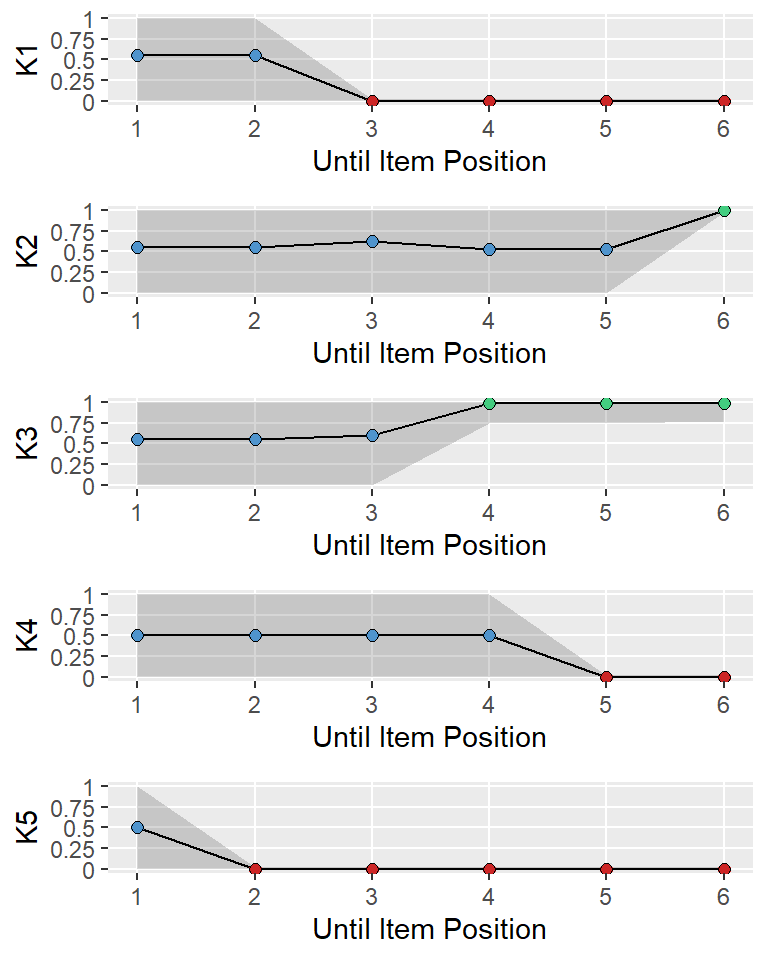
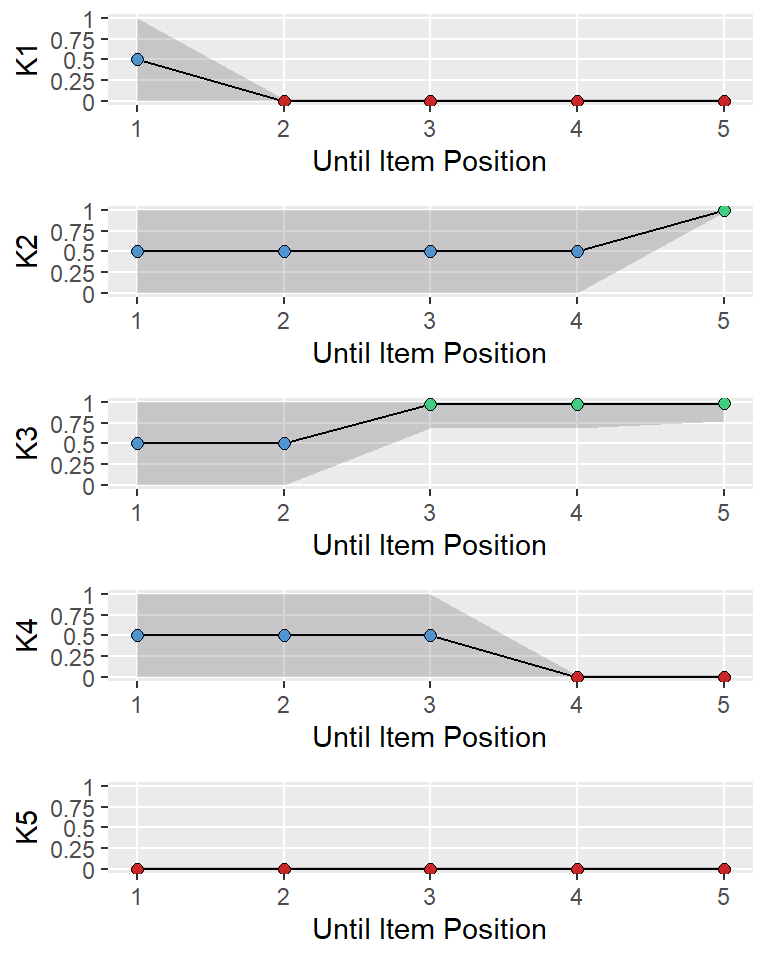
Work in progress

diff --git a/publications.html b/publications.html
@@ -299,24 +299,39 @@ $(document).ready(function () {
 
 
 <p><em>Page under construction</em></p>
+<div id="in-press" class="section level3">
+<h3>[2020/in press]</h3>
 <p><sup>18</sup> <strong>Sorrel, M. A.</strong>, Martínez-Huertas, J. A., &amp; Arconada, M. (in press). It must have been burnout: Prevalence and related factors among Spanish PhD students. <em>Spanish Journal of Psychology</em>.</p>
 <p><sup>17</sup> <strong>Sorrel, M. A.</strong>, Barrada, J. R., de la Torre, J., &amp; Abad, F. J. (in press). Adapting cognitive diagnosis computerized adaptive testing item selection rules to traditional item response theory. <em>PLOS ONE</em>. <a href="doi:10.1371/journal.pone.0227196" class="uri">doi:10.1371/journal.pone.0227196</a></p>
 <p><sup>16</sup> Nájera, P., <strong>Sorrel, M.A.</strong>, &amp; de la Torre, J. Abad, F. J. (in press). Improving robustness in Q-matrix validation using an iterative and dynamic procedure. <em>Applied Psychological Measurement.</em> <a href="doi:10.1177/0146621620909904" class="uri">doi:10.1177/0146621620909904</a></p>
+</div>
+<div id="section" class="section level3">
+<h3>[2019]</h3>
 <p><sup>15</sup> Collado, S., &amp; <strong>Sorrel, M. A.</strong> (2019). Children’s environmental moral judgments: Variations according to type of victim and exposure to nature. <em>Journal of Environmental Psychology</em>, <em>62</em>,42-48.</p>
 <p><sup>14</sup> Nájera, P., <strong>Sorrel, M. A.</strong>, &amp; Abad, F. J. (2019). Reconsidering cutoff points in the general method of empirical Q-matrix validation. <em>Educational and Psychological Measurement</em>, <em>79</em>, 727-753.</p>
 <p><sup>13</sup> Yigit, H., <strong>Sorrel, M. A.</strong>, &amp; de la Torre, J. (2019). Computerized adaptive testing for cognitively based multiple-choice data. <em>Applied Psychological Measurement</em>, <em>43</em>, 388-401.</p>
-<p><sup>12</sup> Abad, F. J., <strong>Sorrel, M. A.</strong>, García, L.F., &amp; Aluja, A. (2018). Modeling general, specific, and method variance in personality measures: Results for ZKA-PQ and NEO-PI-R. <em>Assessment</em>, <em>25</em>, 959-977.</p>
+</div>
+<div id="section-1" class="section level3">
+<h3>[2018]</h3>
+<p><sup>12</sup> Abad, F. J., <strong>Sorrel, M. A.</strong>, García, L.F., &amp; Aluja, A. (2018). Modeling general, specific, and method variance in personality measures: Results for ZKA-PQ and NEO-PI-R. <em>Assessment</em>, <em>25</em>, 959-977. ### [2017]</p>
 <p><sup>11</sup> Collado, S., Evans, G., &amp; <strong>Sorrel, M. A.</strong> (2017). The role of parents and best friends in children’s pro-environmentalism: differences according to age and gender. <em>Journal of Environmental Psychology</em>, <em>54</em>, 27-37.</p>
 <p><sup>10</sup> <strong>Sorrel, M. A.</strong>, de la Torre, J., Abad, F. J., &amp; Olea, J. (2017). Two-step likelihood ratio test for item-level model comparison in cognitive diagnosis models. <em>Methodology</em>, <em>13</em>, 39-47.</p>
 <p><sup>9</sup> <strong>Sorrel, M. A.</strong>, Abad, F. J., Olea, J., de la Torre, J., &amp; Barrada, J. R. (2017). Inferential item fit evaluation in cognitive diagnosis modeling. <em>Applied Psychological Measurement</em>, <em>41</em>, 614-631.</p>
+</div>
+<div id="section-2" class="section level3">
+<h3>[2016]</h3>
 <p><sup>8</sup> Collado, S., Staats, H., &amp; <strong>Sorrel, M. A.</strong> (2016). A relational model of perceived restorativeness: Intertwined effects of obligations, familiarity, security and parental supervision. <em>Journal of Environmental Psychology</em>, <em>48</em>, 24-32.</p>
 <p><sup>7</sup> Cabello, R., <strong>Sorrel, M. A.</strong>, Fernández-Pinto, I., Extremera, N., &amp; Fernández-Berrocal, P. (2016). Age and gender differences in ability emotional intelligence in adults: A cross-sectional study. <em>Developmental Psychology</em>, <em>52</em>, 1486-1492.</p>
 <p><sup>6</sup> <strong>Sorrel, M. A.</strong>, Olea, J., Abad, F. J., de la Torre, J., Aguado, D., &amp; Lievens, F. (2016). Validity and reliability of situational judgement test scores: A new approach based on cognitive diagnosis models. <em>Organizational Research Methods</em>, <em>19</em>, 506-532.</p>
 <p><sup>5</sup> Collado, S., Staats, H., &amp; <strong>Sorrel, M. A.</strong> (2016). Helping out on the land: Effects of children’s role in agriculture on reported psychological restoration. <em>Journal of Environmental Psychology</em>, <em>45</em>, 201-209.</p>
+</div>
+<div id="section-3" class="section level3">
+<h3>[2015]</h3>
 <p><sup>4</sup> Abad, F. J., <strong>Sorrel, M. A.</strong>, Román, F. J., &amp; Colom, R. (2015). The relationships between WAIS-IV factor index scores and educational level: A bifactor model approach. <em>Psychological Assessment</em>, <em>28</em>, 987-1000.</p>
 <p><sup>3</sup> Collado, S., Evans, G. W., Corraliza, J. A., &amp; <strong>Sorrel, M. A.</strong> (2015). The role played by age on children’s pro-ecological behaviors: An exploratory analysis. <em>Journal of Environmental Psychology</em>, <em>44</em>, 85-94.</p>
 <p><sup>2</sup> Lievens, F., Corstjens, J., <strong>Sorrel, M. A.</strong>, Abad, F. J., Olea, J., &amp; Ponsoda, V. (2015). The cross‐cultural transportability of situational judgment tests: How does a US‐based integrity situational judgment test fare in España?. <em>International Journal of Selection and Assessment</em>, <em>23</em>, 361-372.</p>
 <p><sup>1</sup> Collado, S., Corraliza, J. A., <strong>Sorrel, M. A.</strong>, &amp; W Evans, G. (2015). Spanish version of the Children’s Ecological Behavior (CEB) scale. <em>Psicothema</em>, <em>26</em>, 82-87.</p>
+</div>
 
 
 

diff --git a/projects.html b/projects.html
@@ -299,8 +299,10 @@ $(document).ready(function () {
 
 
 <p><em>Page under construction</em></p>
-<div id="r-packages" class="section level2">
-<h2>[R Packages]</h2>
+<div id="software" class="section level2">
+<h2>[Software]</h2>
+<div id="r-packages" class="section level3">
+<h3>[R Packages]</h3>
 <ul>
 <li>cdcatR creator, maintainer</li>
 </ul>
@@ -313,12 +315,13 @@ $(document).ready(function () {
 <tbody>
 <tr class="odd">
 <td><a href="https://www.repostatus.org/#active"><img src="https://www.repostatus.org/badges/latest/active.svg" alt="Project Status: Active – The project has reached a stable, usable state and is being actively developed." /></a></td>
-<td><a href="https://cran.r-project.org/package=cdcatR"><img src="https://cranlogs.r-pkg.org/badges/cdcatR?color=brightgreen" /></a></td>
 <td><a href="https://cran.r-project.org/package=cdcatR"><img src="http://cranlogs.r-pkg.org/badges/grand-total/cdcatR?color=green" /></a></td>
+<td><a href="https://cran.r-project.org/package=cdcatR"><img src="https://cranlogs.r-pkg.org/badges/cdcatR?color=brightgreen" /></a></td>
 </tr>
 </tbody>
 </table>
 <p>Citation: Sorrel, M. A., Nájera, N., &amp; Abad, F. J. (2020). cdcatR: Cognitive Diagnostic Computerized Adaptive Testing. R package version 1.0.1. Retrived from <a href="https://CRAN.R-project.org/package=cdcatR" class="uri">https://CRAN.R-project.org/package=cdcatR</a></p>
+<p><img src="cdcatR_hex.png" style="width:25.0%" /></p>
 <ul>
 <li>GDINA contributor</li>
 </ul>
@@ -331,24 +334,43 @@ $(document).ready(function () {
 <tbody>
 <tr class="odd">
 <td><a href="https://www.repostatus.org/#active"><img src="https://www.repostatus.org/badges/latest/active.svg" alt="Project Status: Active – The project has reached a stable, usable state and is being actively developed." /></a></td>
-<td><a href="https://cran.r-project.org/package=GDINA"><img src="https://cranlogs.r-pkg.org/badges/GDINA?color=brightgreen" /></a></td>
 <td><a href="https://cran.r-project.org/package=GDINA"><img src="http://cranlogs.r-pkg.org/badges/grand-total/GDINA?color=green" /></a></td>
+<td><a href="https://cran.r-project.org/package=GDINA"><img src="https://cranlogs.r-pkg.org/badges/GDINA?color=brightgreen" /></a></td>
 </tr>
 </tbody>
 </table>
 <p>Citation: Ma, W. &amp; de la Torre, J. (2020). GDINA: An R Package for Cognitive Diagnosis Modeling. <em>Journal of Statistical Software</em>, <em>93</em>(14), 1-26. <a href="https://doi.org/10.18637/jss.v093.i14" class="uri">https://doi.org/10.18637/jss.v093.i14</a></p>
 <p>Ma, W. &amp; de la Torre, J. (2020).<em>GDINA: The generalized DINA model framework</em>. R package version 2.8.0. Retrived from <a href="https://CRAN.R-project.org/package=GDINA" class="uri">https://CRAN.R-project.org/package=GDINA</a></p>
 </div>
+<div id="computer-programs-and-apps" class="section level3">
+<h3>[Computer programs and Apps]</h3>
+<ul>
+<li>FoCo: A Shiny App for Formative Assessment and Self-Evaluation of Competencies, creator, maintainer, project coordinator</li>
+</ul>
+<p>Traditional educational assessment has been focused almost exclusively on rank-odering (e.g., Student A &lt; Student B &lt; Student C). Formative assessment aims to provide specific feedback to facilitate remedial instruction (e.g., Student A masters competency 1, but not 2 and 3; Student B masters competencies 1 and 2, but not 3…). To facilitate these applications we generated a Shinny app that allow for cognitive diagnosis modeling applications. You can access the app using the following link:</p>
+<p><a href="https://foco.shinyapps.io/FoCo/" class="uri">https://foco.shinyapps.io/FoCo/</a></p>
+<p>Innovation Project PS_006.19_INN funded by UAM. Other team members are: Rodrigo S. Kreitchmann, Francisco Jose Abad, Carmen García, Jose Ángel Martínez-Huertas, David Moreno, Pablo Nájera, María Dolores Nieto, Ricardo Olmos, Cristina Rey Díaz, and Susana Sanz</p>
+<p><img src="logo.png" style="width:25.0%" /></p>
+</div>
+</div>
 <div id="model-fit-evaluation" class="section level2">
 <h2>[Model Fit Evaluation]</h2>
 </div>
 <div id="computerized-adaptive-testing" class="section level2">
 <h2>[Computerized Adaptive Testing]</h2>
-<p><strong>Look at how cool this plot is!</strong></p>
+<pre class="r"><code>library(cdcatR)</code></pre>
 <pre><code>## ==============================
-## cdcatR Package [Version 1.0.1; 2020-07-1]
+## cdcatR Package [Version 1.0.2; 2020-07-14]
 ## More information: https://github.com/miguel-sorrel/cdcatR
 ## ==============================</code></pre>
+<pre class="r"><code>Q &lt;- sim180GDINA$simQ
+K &lt;- ncol(Q)
+dat &lt;- sim180GDINA$simdat[1:100, ]
+fit &lt;- GDINA::GDINA(dat = dat, Q = Q, verbose = 0) # GDINA 
+res.VARJ &lt;- cdcat(fit = fit, dat = dat, FIXED.LENGTH = FALSE,
+                 MAXJ = 20, precision.cut = .80, n.cores = 2 , print.progress = FALSE)
+
+att.plot(cdcat.obj = res.VARJ, i = 1) # plot  for the first examinee (fixed-precision)</code></pre>
 <p><img src="projects_files/figure-html/unnamed-chunk-1-1.png" width="384" style="display: block; margin: auto;" /></p>
 </div>
 <div id="psychometric-applications" class="section level2">

diff --git a/index.html b/index.html
@@ -304,7 +304,7 @@ $(document).ready(function () {
 <table>
 <tbody>
 <tr class="odd">
-<td><img src="cdcatR.jpg" style="width:100.0%" /></td>
+<td><img src="cdcatR_hex.png" style="width:100.0%" /></td>
 <td><img src="me.jpg" style="width:50.0%" /></td>
 </tr>
 </tbody>
